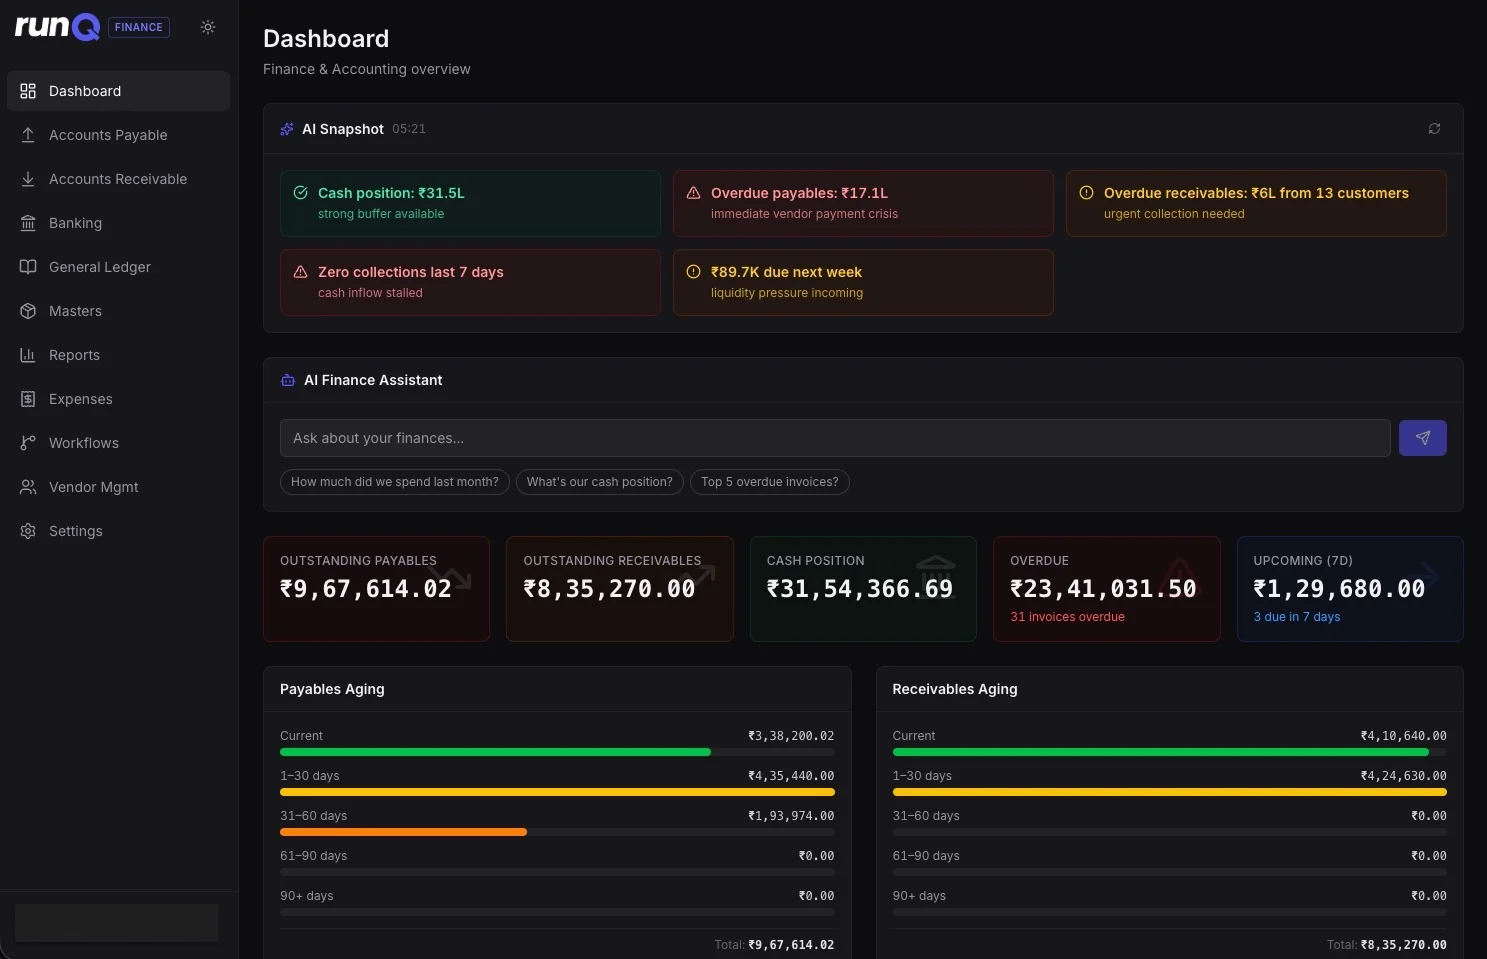
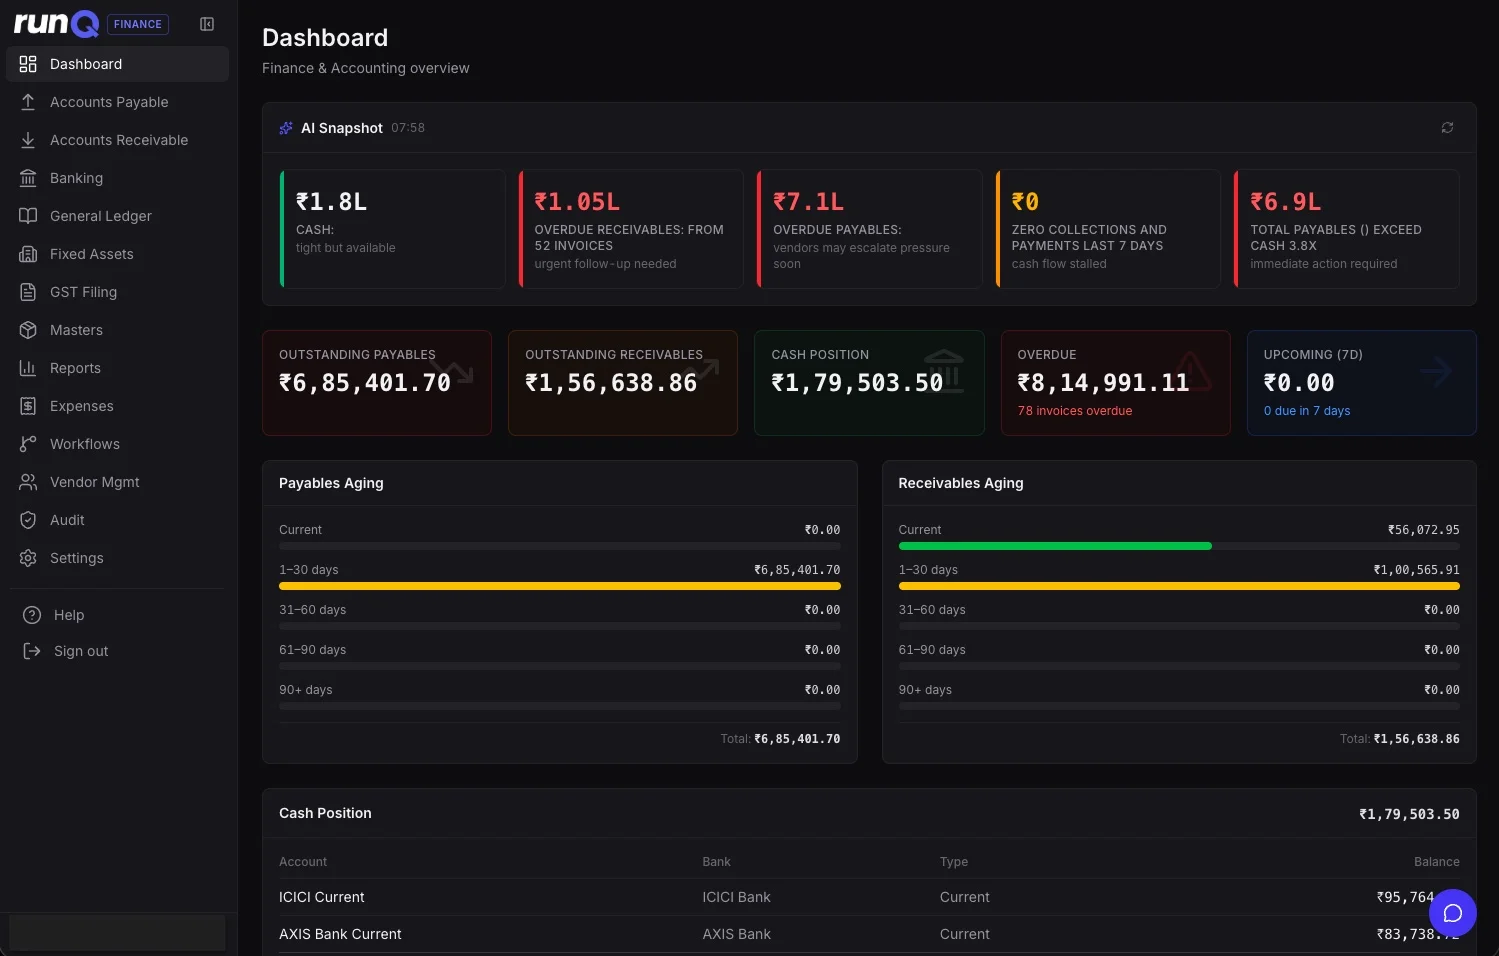
fix(www): convert dashboard screenshot to webp (207KB → 58KB)

diff --git a/apps/www/src/components/sections/hero.tsx b/apps/www/src/components/sections/hero.tsx
@@ -82,7 +82,7 @@ export function Hero() {
           className="mt-14"
         >
           <BrowserFrame
-            src="/images/dashboard.jpg"
+            src="/images/dashboard.webp"
             alt="runQ Dashboard — cash position, receivables, payables, aging charts"
             className="glow"
           />
